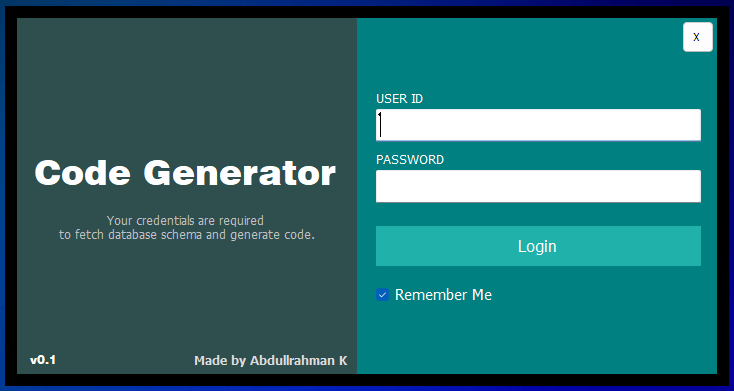
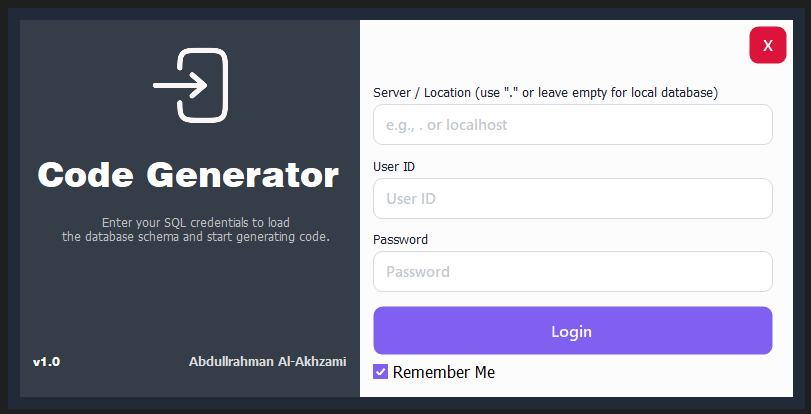
docs: update README.md and refresh UI screenshots showcase - Updated README.md with detailed setup instructions, features overview, and modern UI guide. - Added updated UI showcase screenshots including engine setups, code previews, and export forms. - Removed deprecated preview screenshots (select_

diff --git a/README.md b/README.md
@@ -1,62 +1,92 @@
-# 🚀 C# Code Generator Project
+# 🚀 C# Code Generator (Enhanced Edition)
 
-# 👋 Hello!
+## 👋 Hello & Welcome!
 
-This is a project I built to solve a problem I faced while learning and do some project. I noticed that writing the same code over and over for Data Access and Business layers takes a lot of time, so I decided to build this tool to do it for me!
-
-## 🎯 Overview
-
-A tool designed to automate the creation of **Multi-Tier Architecture** layers for C# applications. This generator connects directly to **SQL Server**, analyzes database metadata, and instantly produces production-ready code for both **Data Access** and **Business Logic** layers.
+This is an enhanced version of the **C# Code Generator** tool. It automates the boilerplate creation of the **3-Tier Architecture** (Data Access Layer & Business Logic Layer) by analyzing SQL Server metadata, saving development time, eliminating manual coding errors, and letting you focus on core application logic.
 
 ---
 
-## 📸 How it looks (Screenshots)
+## ⚡ Important Setup Note
 
-### 🔐 1. Login Screen
+> [!IMPORTANT]  
+> Before running the solution in Visual Studio, ensure that **`Code_Generator_Desktop_Application`** is set as the **Startup Project**.  
+> _Right-click `Code_Generator_Desktop_Application` in the Solution Explorer ➔ Select **Set as Startup Project**._
+
+---
+
+## 🎯 What's New in This Version?
+
+- **⚙ Core Refactoring (SOLID Principles):** Redesigned backend architecture using interfaces (`iBusinessGenerators`, `iDataAccessGenerator`) and decoupled builders to strictly adhere to the **Single Responsibility Principle (SRP)**.
+- **📜 Stored Procedures Support:** Option to generate and automatically execute SQL Stored Procedures on SQL Server, generating seamless DAL wrapper code to call them.
+- **🔌 Flexible Connection Management:** Choose between generating connection strings dynamically via `App.config` or through a dedicated Static Connection Class.
+- **🎨 Modernized UI & Previews:** Updated user interface featuring real-time code previews (`Data Access Layer`, `Business Layer`, `Connection`, and `TSQL Scripts`), improved warnings, and enhanced export dialogs.
+- **🧹 Automatic Code Formatting:** Integrated indentation engine (`clsHelper.FormatCode`) that formats `{ }` block structures automatically for clean, readable code output.
+
+---
+
+## 📸 Screenshots Showcase
+
+### 🔐 1. Login & Connection Setup
+
+Connect securely to your local or remote SQL Server instance.
 
 ![Login](/screenshots/login_screen.png)
 
-I made this screen to connect securely to the SQL Server.
+---
 
-### 🗄 2. Database Selection
+### 🗄 2. Main Dashboard & Database Selection
 
-![Database](/screenshots/select_database.png)
+View all available databases and inspect table properties dynamically.
 
-Once connected, you can see all your databases and choose the one you want to work on.
+|                     Select Database                     |       Main Interface Overview       |                      Table without Primary Key                       |
+| :-----------------------------------------------------: | :---------------------------------: | :------------------------------------------------------------------: |
+| ![Database](/screenshots/main_page_select_database.png) | ![Main](/screenshots/main_page.png) | ![Table Warning](/screenshots/main_page_select_table_without_PK.png) |
 
-### 📊 3. Table & Code Generation
+---
 
-![Tables](/screenshots/select_tables.png)
+### ⚙ 3. Engine Settings & Code Configurations
 
-This is the heart of the project! You select a table, and the tool shows you the columns and generates the `Data Layer` and `Business Layer` files for you.
+Configure generation options, operation types, and architecture settings.
+
+|                Configuration 1                |                Configuration 2                |
+| :-------------------------------------------: | :-------------------------------------------: |
+| ![Setups 1](/screenshots/engine_setups_1.png) | ![Setups 2](/screenshots/engine_setups_2.png) |
+
+---
+
+### 👁 4. Real-Time Code Previewing
+
+Inspect generated C# code layers and T-SQL scripts before exporting.
+
+|                   Data Access Layer                    |                Business Logic Layer                 |                  Connection Code                  |                   T-SQL Scripts                    |
+| :----------------------------------------------------: | :-------------------------------------------------: | :-----------------------------------------------: | :------------------------------------------------: |
+| ![DAL](/screenshots/preview_code_DataAccess_Layer.png) | ![BLL](/screenshots/preview_code_Logical_Layer.png) | ![Conn](/screenshots/preview_code_connection.png) | ![SQL](/screenshots/preview_code_TSQL_Scripts.png) |
+
+---
+
+### 💾 5. Exporting Generated Code
+
+Export `.cs` files and SQL scripts directly to your project destination.
+
+|                 Export Form                  |                      Successful Export                       |
+| :------------------------------------------: | :----------------------------------------------------------: |
+| ![Export Form](/screenshots/Export_Form.png) | ![Export Success](/screenshots/Export_Form_Successfully.png) |
 
 ---
 
 ## ✨ Key Features
 
-- 🔍 **Dynamic Metadata Extraction:** Automatically fetches databases, tables, and column details using SQL System Views.
-- 🛠 **Smart Type Mapping:** Seamlessly maps SQL data types to their corresponding C# types.
-- ⚡ **Identity Column Intelligence:** Automatically detects `IsIdentity` columns to handle primary keys and auto-increment.
-- 🏗 **Layered Architecture:** Generates clean, decoupled code following the **N-Tier** pattern (Data Access & Business Layers).
-- 📂 **File Exporting:** Exports generated code directly into `.cs` files with a single click.
+- **🔍 Dynamic Metadata Extraction:** Fetches databases, tables, columns, primary keys, identity columns, foreign keys, and constraints using SQL System Views.
+- **🛠 Smart Type Mapping:** Automatically maps SQL Server data types to equivalent C# data types (`varchar` ➔ `string`, `int` ➔ `int`, `bit` ➔ `bool`, etc.).
+- **🏗 Decoupled 3-Tier Code Generation:** Generates robust, production-ready `Data Access` and `Business Logic` classes.
+- **📜 Automatic Stored Procedure Generation:** Generates T-SQL scripts for `Insert`, `Update`, `Delete`, `Select`, and `SelectAll` procedures.
+- **⚡ Clean Code Formatter:** Formats generated code indentation automatically using internal helper routines.
 
-## 🏗 System Architecture
+---
 
-The tool generates a robust architecture based on:
-
-1. **Data Access Layer (DAL):** Uses `ADO.NET` with optimized `SqlClient` commands for CRUD operations.
-2. **Business Logic Layer (BLL):** Creates object-oriented representations of database entities with integrated validation logic.
-3. **UI Layer:** A user-friendly **Windows Forms** interface for managing the generation process.
-
-## 🚀 How to Use
-
-1. **Connect:** Enter your SQL Server credentials and select your target database.
-2. **Select:** Choose the table you want to generate code for.
-3. **Generate:** The engine uses `StringBuilder` and predefined templates to construct the logic.
-4. **Export:** Save your professional `.cs` files and include them in your project immediately.
-
-## 🛠 Tech Stack
+## 🛠 Tech Stack & Architecture
 
 - **Language:** C# (.NET Framework)
-- **Database:** Microsoft SQL Server
-- **Logic:** Advanced String Manipulation & Metadata Analysis
+- **UI Framework:** Windows Forms (WinForms with Guna UI2 / Custom Controls)
+- **Database:** Microsoft SQL Server (ADO.NET / `System.Data.SqlClient`)
+- **Design Patterns:** Builder Pattern, Facade Pattern (`clsMainBridge`), Interface Segregation (`iBusinessGenerators`, `iDataAccessGenerator`)
